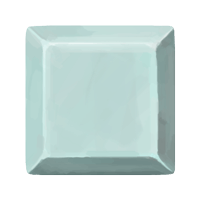
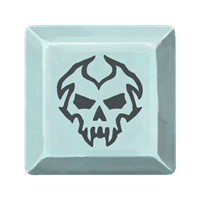
Paint Legendary weapons and complete rest and Heart-victory presentation

diff --git a/src/main/java/shadowpriest/character/ShadowPriest.java b/src/main/java/shadowpriest/character/ShadowPriest.java
@@ -4,6 +4,9 @@ import basemod.BaseMod;
 import basemod.abstracts.CustomEnergyOrb;
 import basemod.abstracts.CustomPlayer;
 import com.badlogic.gdx.graphics.Color;
+import com.badlogic.gdx.Gdx;
+import com.badlogic.gdx.graphics.Texture;
+import com.badlogic.gdx.graphics.g2d.SpriteBatch;
 import com.badlogic.gdx.graphics.g2d.BitmapFont;
 import com.badlogic.gdx.math.MathUtils;
 import com.evacipated.cardcrawl.modthespire.lib.SpireEnum;
@@ -18,11 +21,15 @@ import com.megacrit.cardcrawl.core.EnergyManager;
 import com.megacrit.cardcrawl.core.Settings;
 import com.megacrit.cardcrawl.helpers.CardLibrary;
 import com.megacrit.cardcrawl.helpers.FontHelper;
+import com.megacrit.cardcrawl.helpers.ImageMaster;
 import com.megacrit.cardcrawl.helpers.ScreenShake;
+import com.megacrit.cardcrawl.cutscenes.CutscenePanel;
+import com.megacrit.cardcrawl.rooms.CampfireUI;
 
 import com.megacrit.cardcrawl.screens.CharSelectInfo;
 
 import java.util.ArrayList;
+import java.util.List;
 
 import static shadowpriest.ShadowPriestMod.characterPath;
 import static shadowpriest.ShadowPriestMod.makeID;
@@ -84,9 +91,10 @@ public class ShadowPriest extends CustomPlayer {
 
 
     //In-game images
-    private static final String SHOULDER_1 = characterPath("shoulder.png"); //Shoulder 1 and 2 are used at rest sites.
-    private static final String SHOULDER_2 = characterPath("shoulder2.png");
+    private static final String SHOULDER_1 = characterPath("rest_priest.png");
+    private static final String SHOULDER_2 = characterPath("rest_priest.png");
     private static final String CORPSE = characterPath("corpse.png"); //Corpse is when you die.
+    private float restAnimationTime;
 
     //Textures used for the energy orb
     private static final String[] orbTextures = {
@@ -127,10 +135,42 @@ public class ShadowPriest extends CustomPlayer {
                 getLoadout(),
                 0.0F, -10.0F, 220.0F, 310.0F, //Match the tall regalia silhouette.
                 new EnergyManager(ENERGY_PER_TURN));
+        shoulderImg.setFilter(Texture.TextureFilter.Linear, Texture.TextureFilter.Linear);
+        shoulder2Img.setFilter(Texture.TextureFilter.Linear, Texture.TextureFilter.Linear);
 
         //Location for text bubbles. You can adjust it as necessary later. For most characters, these values are fine.
         dialogX = (drawX + 0.0F * Settings.scale);
         dialogY = (drawY + 220.0F * Settings.scale);
+    }
+
+    @Override
+    public void renderShoulderImg(SpriteBatch sb) {
+        restAnimationTime += Math.min(Gdx.graphics.getDeltaTime(), 0.1f);
+        float s = Settings.scale;
+        float breath = MathUtils.sin(restAnimationTime * 1.5f);
+        float flicker = MathUtils.sin(restAnimationTime * 3.7f) * 0.015f;
+        float oldColor = sb.getPackedColor();
+        Texture sprite = CampfireUI.hidden ? shoulder2Img : shoulderImg;
+        try {
+            sb.setColor(0.82f + flicker, 0.78f + flicker, 0.94f, 1f);
+            // Keep the foreground bust left of the campfire choices, with its robe below the screen.
+            sb.draw(sprite, -100f * s + (CampfireUI.hidden ? 0f : animX), -185f * s,
+                450f * s, 120f * s, 900f * s, 900f * s,
+                1f, 1f + breath * 0.004f, breath * 0.15f,
+                0, 0, sprite.getWidth(), sprite.getHeight(), false, false);
+        } finally { sb.setColor(oldColor); }
+    }
+
+    @Override
+    public Texture getCutsceneBg() {
+        return ImageMaster.loadImage("images/scenes/purpleBg.jpg");
+    }
+
+    @Override
+    public List<CutscenePanel> getCutscenePanels() {
+        ArrayList<CutscenePanel> panels = new ArrayList<>();
+        panels.add(new CutscenePanel(characterPath("ending/heart_victory.png"), "ATTACK_MAGIC_BEAM_SHORT"));
+        return panels;
     }
 
     @Override

diff --git a/src/main/java/shadowpriest/cards/StarterCardArt.java b/src/main/java/shadowpriest/cards/StarterCardArt.java
@@ -6,7 +6,7 @@ import com.badlogic.gdx.graphics.Texture;
 import java.util.HashMap;
 import java.util.Map;
 
-/** Keeps the actual ability icons intact, surrounded by the shared painted frame. */
+/** Framed ability icons, with full-portrait illustrations for Legendary equipment. */
 final class StarterCardArt {
     private static final Map<String, Texture[]> CACHE = new HashMap<>();
     static Texture[] get(String id) {
@@ -48,9 +48,9 @@ final class StarterCardArt {
             case "shadowpriest:SerendipityAttack":
             case "shadowpriest:SerendipitySkill":
             case Serendipity.ID: icon = "cards/icons/serendipity.jpg"; break;
-            case Dragonwrath.ID: icon = "cards/icons/dragonwrath.jpg"; break;
-            case Xalatath.ID: icon = "cards/icons/xalatath.jpg"; break;
-            case Valanyr.ID: icon = "cards/icons/valanyr.jpg"; break;
+            case Dragonwrath.ID: icon = "cards/legendary/dragonwrath.png"; break;
+            case Xalatath.ID: icon = "cards/legendary/xalatath.png"; break;
+            case Valanyr.ID: icon = "cards/legendary/valanyr.png"; break;
             case BloodMagic.ID: icon = "cards/icons/blood_magic.png"; break;
             case MindFlay.ID: icon = "cards/icons/mind_flay.jpg"; break;
             case MindFlayInsanity.ID: icon = "cards/icons/mind_flay_insanity.jpg"; break;
@@ -73,6 +73,14 @@ final class StarterCardArt {
         Pixmap small = new Pixmap(250, 190, Pixmap.Format.RGBA8888);
         try {
             Pixmap.setFilter(Pixmap.Filter.BiLinear);
+            if (icon.startsWith("cards/legendary/")) {
+                // Fill the portrait without stretching the weapon or adding an icon inset.
+                int cropWidth = source.getWidth(), cropHeight = source.getHeight();
+                if (cropWidth * 380L > cropHeight * 500L) cropWidth = cropHeight * 500 / 380;
+                else cropHeight = cropWidth * 380 / 500;
+                large.drawPixmap(source, (source.getWidth() - cropWidth) / 2,
+                    (source.getHeight() - cropHeight) / 2, cropWidth, cropHeight, 0, 0, 500, 380);
+            } else {
             large.drawPixmap(frame, 0, 0, frame.getWidth(), frame.getHeight(), 0, 0, 500, 380);
             int size = 276, x = (500 - size) / 2, y = (380 - size) / 2;
             for (int i = 10; i >= 1; i--) {
@@ -82,6 +90,7 @@ final class StarterCardArt {
             large.drawPixmap(source, 0, 0, source.getWidth(), source.getHeight(), x, y, size, size);
             large.setColor(0.64f, 0.48f, 0.73f, 0.9f);
             large.drawRectangle(x - 1, y - 1, size + 2, size + 2);
+            }
             small.drawPixmap(large, 0, 0, 500, 380, 0, 0, 250, 190);
             Texture[] textures = {new Texture(small), new Texture(large)};
             for (Texture texture : textures) texture.setFilter(Texture.TextureFilter.Linear, Texture.TextureFilter.Linear);

diff --git a/docs/art-pass-02.md b/docs/art-pass-02.md
@@ -1,0 +1,33 @@
+# Legendary and character presentation artwork
+
+Requested October 24, 2026. Created with the built-in image-generation tool using existing weapon model renders and the established combat priest as visual references. The complete prompt set is in [art-pass-02-prompts.json](art-pass-02-prompts.json).
+
+## Legendary portraits
+
+The three equipment cards now use full-portrait painted scenes instead of inset inventory icons:
+
+- [Dragonwrath](../src/main/resources/shadowpriest/images/cards/legendary/dragonwrath.png): the actual staff silhouette in sapphire arcane currents.
+- [Xal'atath](../src/main/resources/shadowpriest/images/cards/legendary/xalatath.png): the hooked blade and eye jewel surrounded by violet void energy.
+- [Val'anyr](../src/main/resources/shadowpriest/images/cards/legendary/valanyr.png): the gold-and-turquoise hammer in warm sanctuary light.
+
+The source paintings are stored unchanged. StarterCardArt uses a centered aspect-preserving crop for the 500 x 380 portrait and derives its 250 x 190 version. The normal orange Legendary card frame remains. The existing icon files remain available for power icons, and the floating combat weapon sprites are unchanged.
+
+These paintings are generated adaptations of Blizzard weapon designs, not official Blizzard illustrations. Reference model sources remain credited in [Warcraft artwork](../licenses/Warcraft-artwork.txt).
+
+## Character-selection button
+
+[button.png](../src/main/resources/shadowpriest/images/character/select/button.png) replaces the blank template with a charcoal outline of the Shadow Word: Pain skull. Its pale blue bevel, transparent padding, and simple linework follow the base-class buttons. The generated result was mechanically downsampled to the same 200 x 200 asset size as the base classes, preserving alpha. Hover/selection highlighting remains the game's normal behavior.
+
+## Rest sites
+
+[rest_priest.png](../src/main/resources/shadowpriest/images/character/rest_priest.png) shows the same priest from behind, including the Transcendence-inspired headdress, pale hair, crescent shoulders, and blue/gold robes. The transparent sprite replaces the inherited Ironclad foreground in both ordinary and hidden-option campfire states.
+
+ShadowPriest.renderShoulderImg positions the bust at the lower left, with the robe extending below the screen. It animates subtle breathing, slight sway, and a restrained warm light flicker. This is a moving painted sprite, not skeletal animation. The SpriteBatch color is restored after drawing.
+
+## Heart victory
+
+[heart_victory.png](../src/main/resources/shadowpriest/images/character/ending/heart_victory.png) depicts the priest shattering the Corrupt Heart with void magic. CustomPlayer's ending hooks now return a purple backdrop and this full-screen painting instead of the default Ironclad panels. It uses the game's normal fade-in, hold, click-to-advance, fade-out, and transition to the victory results. This is one complete tableau rather than three comic panels.
+
+## Verification scope
+
+Generated images were visually inspected and integration was checked against the installed game's rendering methods and BaseMod hooks. The package is compiled with tests explicitly skipped at the user's request. No automated game checks or game launches are part of this art pass; in-game placement and animation remain for the next human playtest.

diff --git a/docs/character-art.md b/docs/character-art.md
@@ -9,7 +9,7 @@ Added October 23, 2026 at the owner's request. The combat character is a shadowy
 - The combat renderer applies a dark violet tint and a gentle idle bob. This is a single painted sprite, not a skeletal animation.
 - Playing Enter Voidform brings up a pulsing purple silhouette glow and brighter violet coloring. The glow fades over approximately a quarter second when the form ends. A ready activation card alone does not enable it.
 - The Insanity meter follows the energy orb's position directly underneath it, and hides with modal screens and the orb panel.
-- Character-select, rest-site, death, card, and relic art remain placeholders for a later pass.
+- Subsequent passes replace card and relic artwork; the selection button, animated rest-site rear view, and Heart-victory ending are documented in [the second presentation pass](art-pass-02.md). The large character-selection portrait and death sprite remain placeholders.
 
 ## Generation prompt
 

diff --git a/README.md b/README.md
@@ -44,6 +44,7 @@ For a desktop launcher, run `./scripts/install-desktop-shortcut.ps1` once, then 
 - [Open questions](docs/open-questions.md): rules that still need decisions, with suggestions clearly marked.
 - [Prototype plan](docs/prototype-plan.md): completed milestone and remaining playtest questions.
 - [Prototype rules](docs/prototype-rules.md): exact mechanics and provisional defaults implemented in 0.1.0.
+- [Legendary and character art pass](docs/art-pass-02.md): weapon paintings, skull selection button, rear-view campfire animation, and Heart-victory scene.
 - [Character artwork](docs/character-art.md): generated combat sprite, Voidform presentation, and source prompt.
 - [Card artwork completion](docs/card-art-completion.md): remaining portraits, sources, and first-run log findings.
 - [Starter card artwork](docs/starter-card-art.md): original ability icons, shared frame, and generation prompt.

diff --git a/docs/legendary-cards.md b/docs/legendary-cards.md
@@ -47,3 +47,8 @@ The focused test now starts combat with each upgraded Legendary in the permanent
 - [Val'anyr in combat](images/legendary/Valanyr.png)
 
 Earlier mechanic-isolation tests deliberately installed Powers or called the individual effect directly, bypassing the equipped-weapon field. They were insufficient to demonstrate live sprite visibility; the normal combat-start checks now cover all three weapons.
+
+
+## Painted card portraits
+
+The inventory-icon card portraits were replaced with full weapon illustrations in the [second presentation pass](art-pass-02.md). The actual model-render sprites beside the character remain separate from these painted card scenes.
